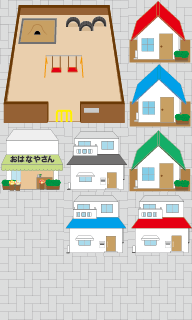
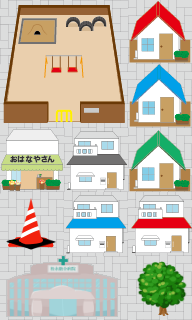
画像差し替え

Changed region(s): [[0.0312, 0.7812, 0.625, 1.0], [0.7188, 0.8125, 0.9688, 1.0], [0.0312, 0.625, 0.2812, 0.7812]]

diff --git a/c_team/app/assets/javascripts/stage/stage1/stage1.js b/c_team/app/assets/javascripts/stage/stage1/stage1.js
@@ -14,7 +14,7 @@ var spriteSize = {
 
 function main() {
   var game = new Game(gameSize.x, gameSize.y);
-  game.preload("azuki_walk.png", "road.png", "objects.png");
+  game.preload("azuki_walk.png", "road.png", "objects.png", "color_cone.png");
 
   game.onload = function () {
     var MapGroup = enchant.Class.mixClasses(Map, Group, true);
@@ -59,7 +59,7 @@ function main() {
       [-1,  5,  5,  5, -1, -1,  3,  4, -1,  5, -1, -1, -1, -1, -1, -1, -1, -1],
       [-1, -1, -1, -1, -1, -1, -1, -1, -1, -1, -1, -1, -1, -1, -1, -1, -1, -1],
       [ 5,  5, -1, -1, -1, -1, -1, -1, -1, -1, -1, -1, -1, -1,  5,  5, -1, -1],
-      [ 5,  5,  5,  5, -1,  5,  5,  5,  5,  7,  7, -1, -1, -1,  5,  5, -1, -1],
+      [ 5,  5,  5,  5, -1, 14, 14, 14, 14, 12, 13, -1, -1, -1,  5,  5, -1, -1],
       [ 5,  5,  5,  5, -1, -1, -1, -1, -1, -1, -1, -1, -1, -1, -1, -1, -1, -1],
       [-1, -1, -1, -1, -1, -1, -1, -1, -1, -1, -1, -1, -1, -1, -1, -1, -1, -1]
     ]);
@@ -75,11 +75,11 @@ function main() {
         game.pause();
       }
     });
-    var o1 = new MapObject(game, map, azuki.player.moveController, "azuki_walk.png", 1024, 128, 3);
-    var o2 = new MapObject(game, map, azuki.player.moveController, "azuki_walk.png", 1088, 128, 3);
-    var o3 = new MapObject(game, map, azuki.player.moveController, "azuki_walk.png", 1024, 192, 3);
-    var o4 = new MapObject(game, map, azuki.player.moveController, "azuki_walk.png", 1088, 192, 3);
-    var o5 = new MapObject(game, map, azuki.player.moveController, "azuki_walk.png", 1024, 256, 3);
+    var o1 = new MapObject(game, map, azuki.player.moveController, "color_cone.png", 1024, 128, 3);
+    var o2 = new MapObject(game, map, azuki.player.moveController, "color_cone.png", 1088, 128, 3);
+    var o3 = new MapObject(game, map, azuki.player.moveController, "color_cone.png", 1024, 192, 3);
+    var o4 = new MapObject(game, map, azuki.player.moveController, "color_cone.png", 1088, 192, 3);
+    var o5 = new MapObject(game, map, azuki.player.moveController, "color_cone.png", 1024, 256, 3);
     map.addChild(foregroundMap);
     // map.addChild(ruledLine);
     map.addChild(azuki.getSprite());
